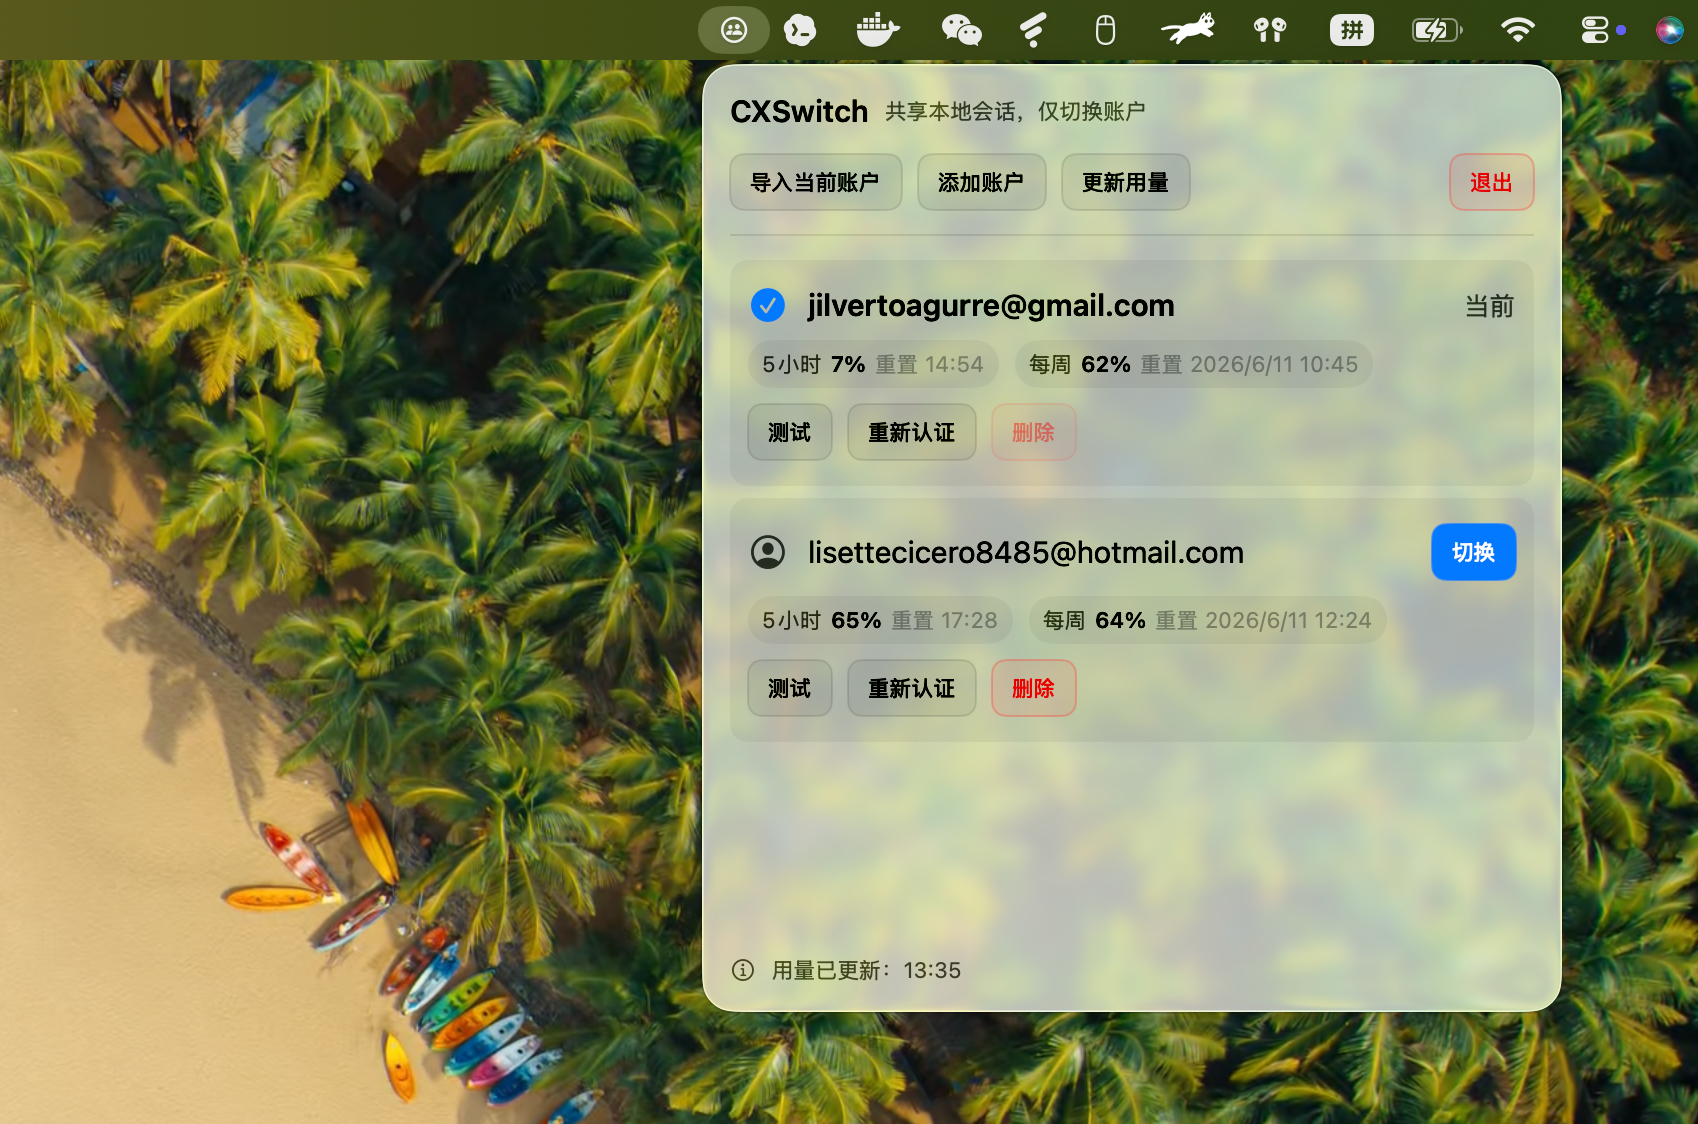
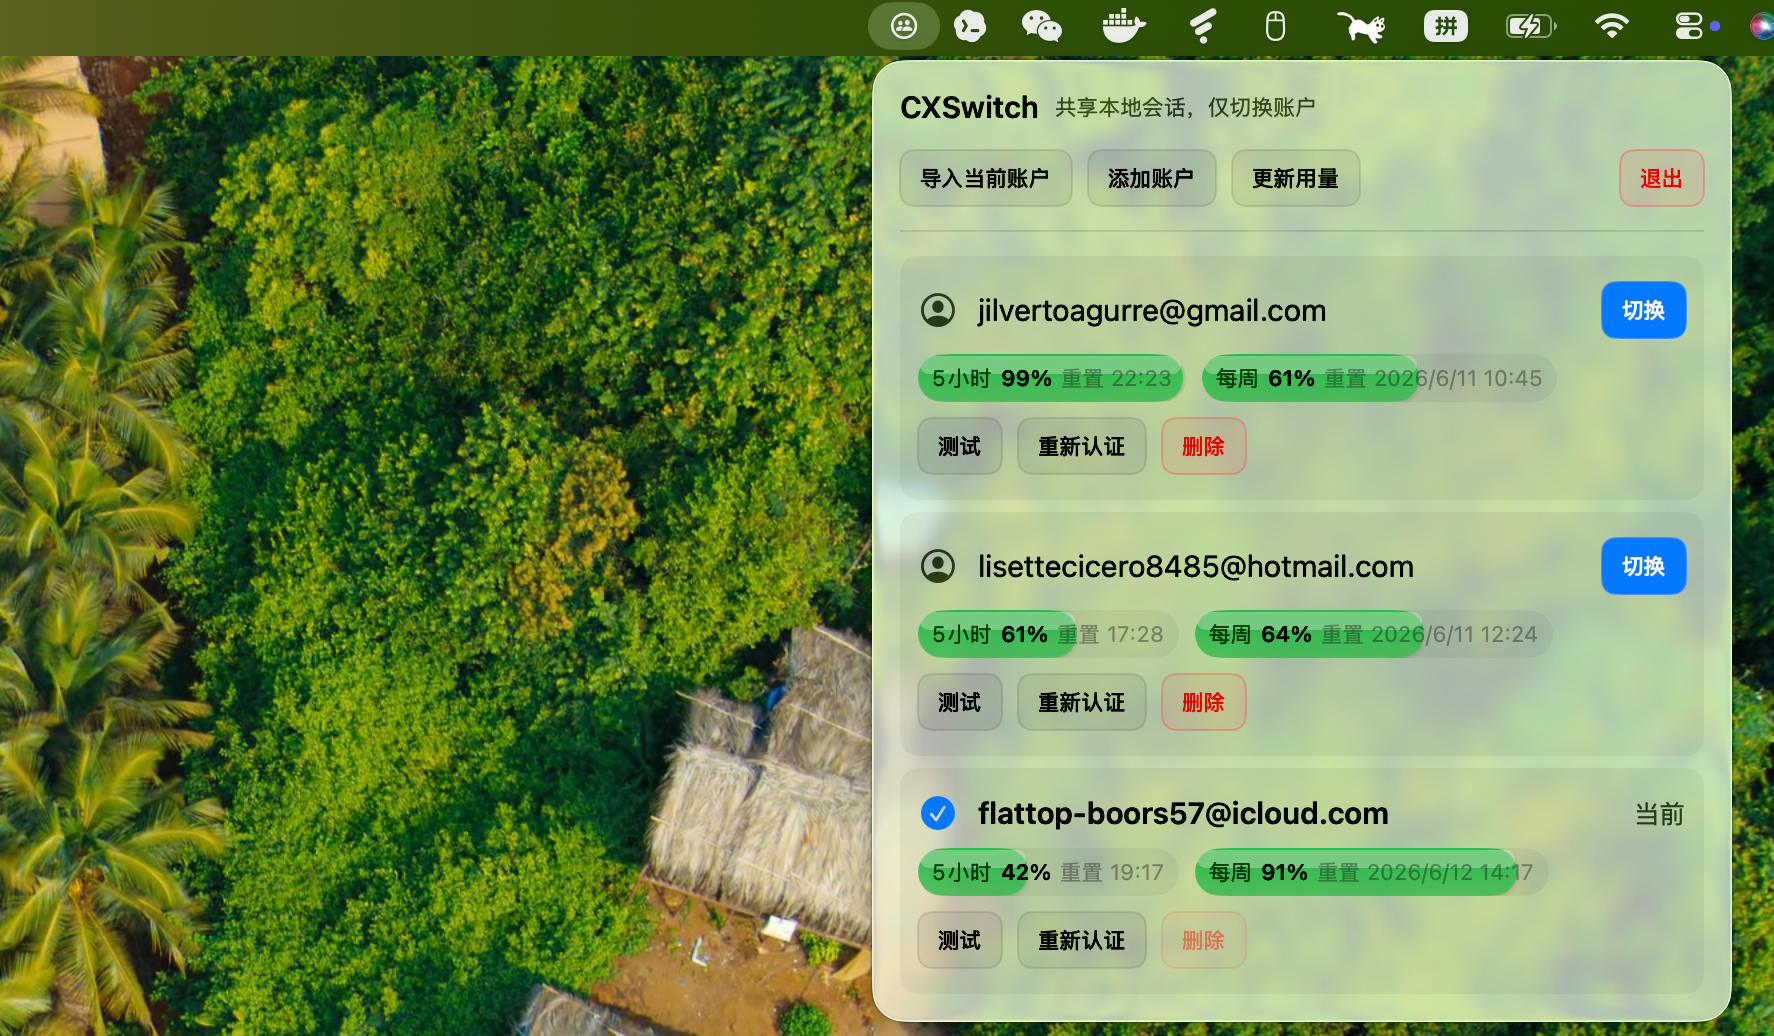
Update usage refresh and progress display
- Refresh account usage after a successful test action

- Reuse single-account usage refresh with contextual status messages

- Render usage remaining percentage as a bright green 3D progress bar

- Update the README screenshot asset

diff --git a/Sources/Views.swift b/Sources/Views.swift
@@ -254,19 +254,54 @@ private struct UsagePill: View {
     let window: UsageWindowSnapshot?
 
     var body: some View {
-        HStack(spacing: 4) {
-            Text(title)
-                .foregroundStyle(.secondary)
-            Text(remainingText)
-                .fontWeight(.semibold)
-                .foregroundStyle(.primary)
-            Text(resetText)
-                .foregroundStyle(Color.secondary.opacity(0.70))
+        ZStack(alignment: .leading) {
+            Capsule()
+                .fill(isRowHovered ? Color.gray.opacity(0.26) : Color.secondary.opacity(0.10))
+
+            GeometryReader { proxy in
+                ZStack(alignment: .topLeading) {
+                    Capsule()
+                        .fill(
+                            LinearGradient(
+                                colors: [
+                                    Color.green.opacity(1.0),
+                                    Color.green.opacity(isRowHovered ? 0.86 : 0.76)
+                                ],
+                                startPoint: .top,
+                                endPoint: .bottom
+                            )
+                        )
+
+                    Capsule()
+                        .fill(Color.white.opacity(isRowHovered ? 0.34 : 0.28))
+                        .frame(height: max(proxy.size.height * 0.38, 1))
+                        .padding(.horizontal, 1)
+                        .padding(.top, 1)
+                }
+                .frame(width: proxy.size.width * progress)
+                .shadow(color: Color.black.opacity(0.16), radius: 1.2, x: 0, y: 1)
+            }
+            .clipShape(Capsule())
+
+            HStack(spacing: 4) {
+                Text(title)
+                    .foregroundStyle(.secondary)
+                Text(remainingText)
+                    .fontWeight(.semibold)
+                    .foregroundStyle(.primary)
+                Text(resetText)
+                    .foregroundStyle(Color.secondary.opacity(0.70))
+            }
+            .padding(.horizontal, 7)
+            .padding(.vertical, 5)
         }
         .font(.subheadline)
-        .padding(.horizontal, 7)
-        .padding(.vertical, 5)
-        .background((isRowHovered ? Color.gray.opacity(0.26) : Color.secondary.opacity(0.10)), in: Capsule())
+        .fixedSize(horizontal: true, vertical: true)
+    }
+
+    private var progress: CGFloat {
+        guard let window else { return 0 }
+        return CGFloat(min(max(window.remainingPercent / 100, 0), 1))
     }
 
     private var remainingText: String {

diff --git a/Sources/AccountStore.swift b/Sources/AccountStore.swift
@@ -51,7 +51,11 @@ final class AccountStore: ObservableObject {
             let identity = try AuthDocument.validate(data)
             let accountID = try self.upsert(data: data, identity: identity, makeActive: false)
             self.statusMessage = "已添加 \(identity.suggestedName)，正在更新用量…"
-            await self.refreshUsage(for: accountID)
+            await self.refreshUsage(
+                for: accountID,
+                successMessage: { "已添加 \($0)，用量已更新" },
+                failureMessage: { "已添加 \($0)，用量更新失败" }
+            )
         }
     }
 
@@ -133,13 +137,18 @@ final class AccountStore: ObservableObject {
         }
     }
 
-    private func refreshUsage(for accountID: UUID) async {
+    private func refreshUsage(
+        for accountID: UUID,
+        successMessage: @escaping (String) -> String,
+        failureMessage: @escaping (String) -> String
+    ) async {
         guard !isRefreshingUsage else { return }
         isRefreshingUsage = true
         lastError = nil
         defer { isRefreshingUsage = false }
 
         guard let index = accounts.firstIndex(where: { $0.id == accountID }) else { return }
+        let displayName = accounts[index].displayName
         let snapshot: AccountUsageSnapshot
 
         do {
@@ -147,7 +156,7 @@ final class AccountStore: ObservableObject {
                 throw CXSwitchError.accountCredentialMissing
             }
             snapshot = try await usageClient.fetch(authData: data)
-            statusMessage = "已添加 \(accounts[index].displayName)，用量已更新"
+            statusMessage = successMessage(displayName)
         } catch {
             snapshot = AccountUsageSnapshot(
                 fiveHour: nil,
@@ -155,7 +164,7 @@ final class AccountStore: ObservableObject {
                 updatedAt: Date(),
                 error: error.localizedDescription
             )
-            statusMessage = "已添加 \(accounts[index].displayName)，用量更新失败"
+            statusMessage = failureMessage(displayName)
         }
 
         accounts[index].usage = snapshot
@@ -169,7 +178,12 @@ final class AccountStore: ObservableObject {
             }
 
             let identity = try await CodexController.testAuthInTemporaryHome(data)
-            self.statusMessage = "测试通过：\(identity.suggestedName)"
+            self.statusMessage = "测试通过：\(identity.suggestedName)，正在更新用量…"
+            await self.refreshUsage(
+                for: account.id,
+                successMessage: { "测试通过：\($0)，用量已更新" },
+                failureMessage: { "测试通过：\($0)，用量更新失败" }
+            )
         }
     }
 